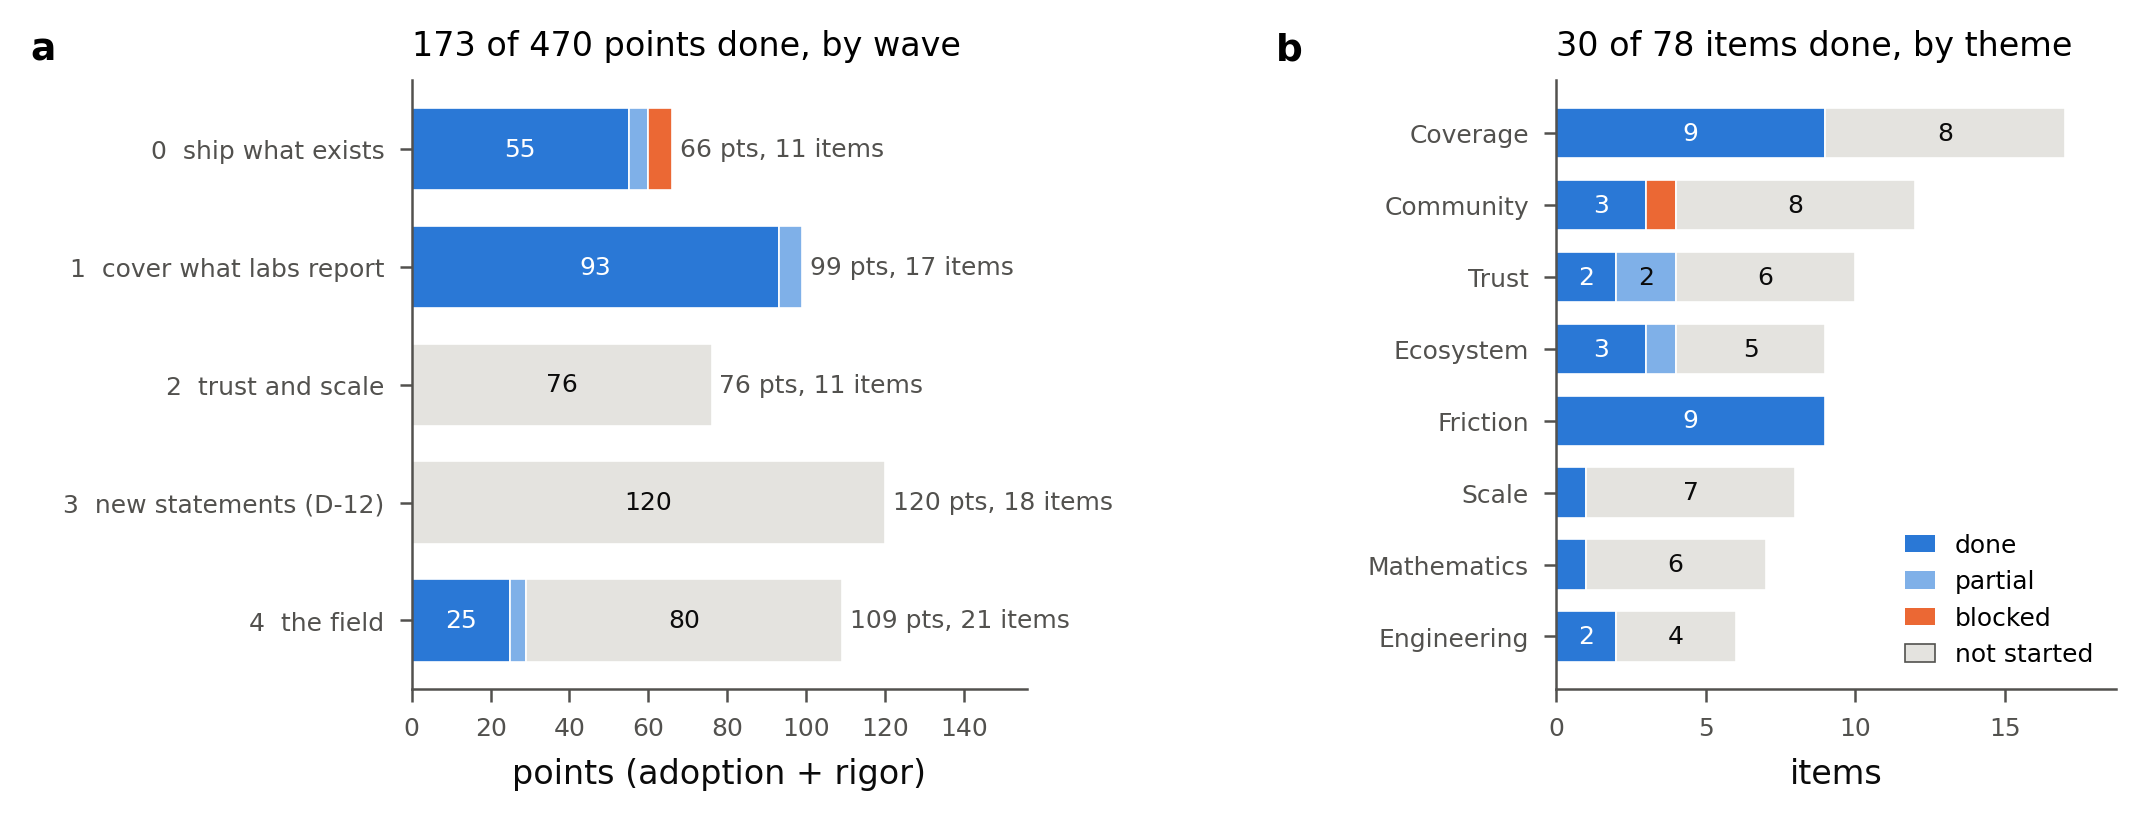
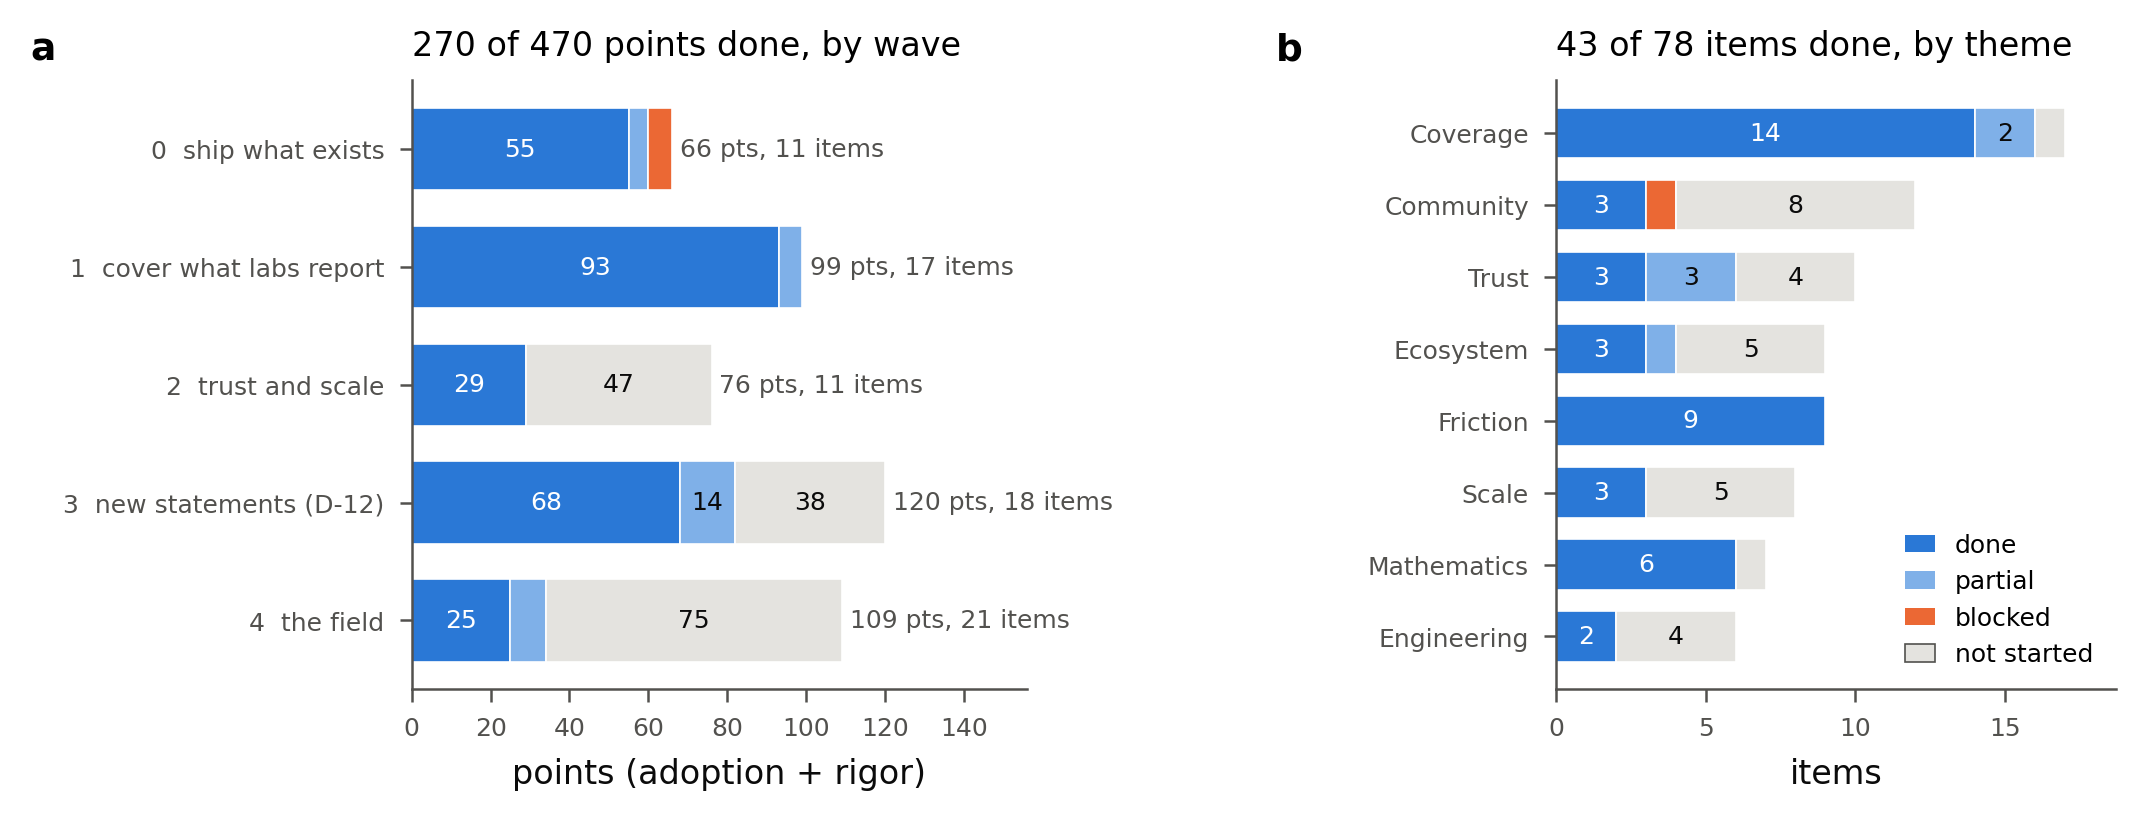
roadmap: status 2026-11-03 (43 done, 6 partial, 270/470 points); fig_roadmap_progress regenerated from the dated CSV

diff --git a/experiments/figures/fig_roadmap_progress.py b/experiments/figures/fig_roadmap_progress.py
@@ -1,7 +1,7 @@
 """E7 fig_roadmap_progress: the 78 roadmap items by wave and theme, with status and points.
 
-Reads experiments/figures/data/ROADMAP_expansion_items_2026-10-29.csv (see data/README.md: the roadmap
-items with their wave). (a) points (score = adoption + rigor) per wave, stacked by status on 2026-10-29;
+Reads experiments/figures/data/ROADMAP_expansion_items_2026-11-03.csv (see data/README.md: the roadmap
+items with their wave). (a) points (score = adoption + rigor) per wave, stacked by status on 2026-11-03;
 (b) item counts per theme, stacked by status. Status words are those of the CSV: done, partial, blocked,
 not started.
 """
@@ -13,7 +13,7 @@ sys.path.insert(0, os.path.dirname(os.path.abspath(__file__)))
 import _common as C  # noqa: E402
 
 NAME = "fig_roadmap_progress"
-DATA = os.path.join(C.HERE, "data", "ROADMAP_expansion_items_2026-10-29.csv")
+DATA = os.path.join(C.HERE, "data", "ROADMAP_expansion_items_2026-11-03.csv")
 STATUS = ["done", "partial", "blocked", "not started"]
 COLORS = {"done": C.BLUE, "partial": "#7fb0e8", "blocked": C.ORANGE, "not started": "#e4e3df"}
 WAVE_TITLE = {"0": "0  ship what exists", "1": "1  cover what labs report", "2": "2  trust and scale",
@@ -29,7 +29,7 @@ def draw(rows):
     import matplotlib.pyplot as plt
     from matplotlib.patches import Patch
     C.style()
-    status_col = [c for c in rows[0] if c.startswith("status_")][0]
+    status_col = sorted(c for c in rows[0] if c.startswith("status_2"))[-1]   # the latest dated status column
     fig, (axa, axb) = plt.subplots(1, 2, figsize=(7.1, 2.9), gridspec_kw=dict(width_ratios=[1.1, 1], wspace=0.9,
                                                                               left=0.19, right=0.99, bottom=0.16, top=0.86))
     waves = sorted({r["wave"] for r in rows})

diff --git a/docs/figures/INDEX.md b/docs/figures/INDEX.md
@@ -106,9 +106,9 @@ What ED papers report against what a certificate states. Bars: the share of the 
 
 ![fig_roadmap_progress](fig_roadmap_progress.png)
 
-The 78 roadmap items (ROADMAP_expansion_items.csv, status column `status_2026-10-29`) by wave (a, points = adoption + rigor) and theme (b, item counts): 30 done, 3 partial (B-03, B-09, F-02), 1 blocked (G-01), 44 not started; 173 of 470 points done. Wave 0 (66 points) has 55 done, Wave 1 (99) has 93, Wave 4 (109) has 25; Waves 2 and 3 (76 and 120 points) are untouched. The wave of each item is read from the wave lists of ROADMAP_expansion.md (experiments/figures/data/README.md).
+The 78 roadmap items (ROADMAP_expansion_items.csv, status column `status_2026-11-03`) by wave (a, points = adoption + rigor) and theme (b, item counts): 43 done, 6 partial (B-03, B-08, B-09, C-07, C-13, F-02), 1 blocked (G-01), 28 not started; 270 of 470 points done. Wave 0 (66 points) has 55 done, Wave 1 (99) has 93, Wave 4 (109) has 25; Waves 2 and 3 (76 and 120 points) are untouched. The wave of each item is read from the wave lists of ROADMAP_expansion.md (experiments/figures/data/README.md).
 
-- data source: experiments/figures/data/ROADMAP_expansion_items_2026-10-29.csv
+- data source: experiments/figures/data/ROADMAP_expansion_items_2026-11-03.csv
 - script: `experiments/figures/fig_roadmap_progress.py`
 
 ## A1  `fig_crown_sectors.pdf` / `fig_crown_sectors.png`

diff --git a/experiments/figures/data/README.md b/experiments/figures/data/README.md
@@ -5,3 +5,5 @@
 `ROADMAP_expansion.md` (section "Waves", items written as `ID (score, effort)`); the per-wave point totals of
 that document (66, 99, 76, 120, 109) are reproduced by summing `score` over the column. `status_2026-10-29` is the
 status after roadmap Waves 0-1 (D-58). The column is a snapshot: the roadmap document is the source of record.
+
+- `ROADMAP_expansion_items_2026-11-03.csv`: the same 78 items with the status column `status_2026-11-03` (after the completion plan, Phases 1-2: 43 done, 6 partial, 1 blocked, 28 not started; 270 of 470 points). The figure reads the latest dated status column.
